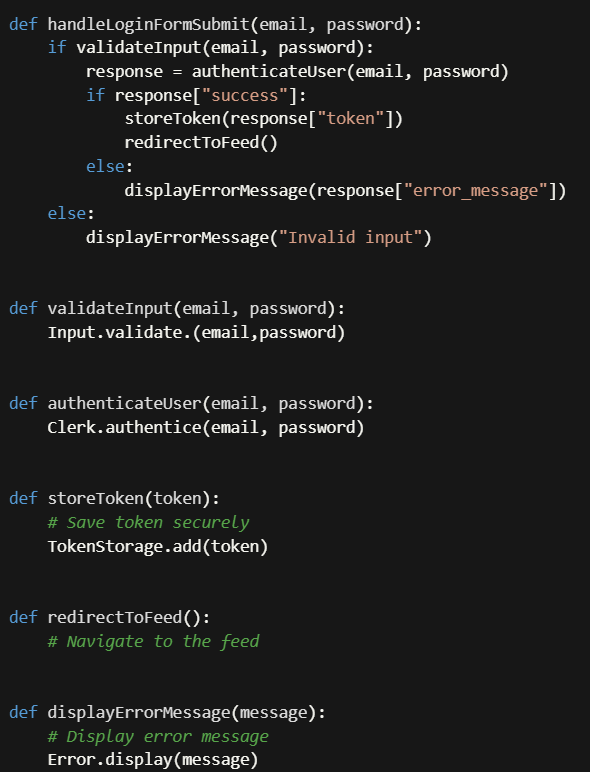
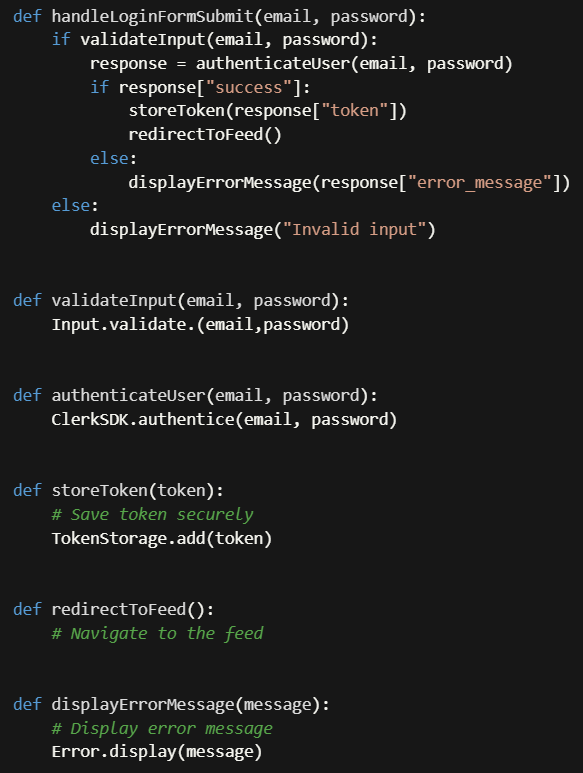
Fix authentication method and add pseudocode for UC2

diff --git a/deliverable-4-sdd/psuedocode/uc2/uc2.md b/deliverable-4-sdd/psuedocode/uc2/uc2.md
@@ -1,0 +1,48 @@
+```python
+def handleRecoverPasswordFormSubmit(email):
+    if validateEmail(email):
+        sendResetLink(email)
+        displayEnterCodeField()
+    else:
+        displayErrorMessage("Invalid email address")
+
+
+def validateEmail(email):
+    return Input.validateEmail(email)
+
+
+def sendResetLink(email):
+    ClerkSDK.sendResetLink(email)
+
+
+def submitVerificationCode(code):
+    response = ClerkSDK.verifyCode(code)
+    if response["success"]:
+        displayNewPasswordField()
+    else:
+        displayErrorMessage("Invalid verification code")
+
+
+def submitNewPassword(newPass):
+    response = ClerkSDK.updatePassword(newPass)
+    if response["success"]:
+        redirectToLoginPage()
+    else:
+        displayErrorMessage("Failed to update password")
+
+
+def displayEnterCodeField():
+    Input.showVerificationField()
+
+
+def displayNewPasswordField():
+    Input.showNewPasswordField()
+
+
+def redirectToLoginPage():
+    Navigation.toLoginPage()
+
+
+def displayErrorMessage(message):
+    Error.display(message)
+```

diff --git a/deliverable-4-sdd/psuedocode/uc1/uc1.md b/deliverable-4-sdd/psuedocode/uc1/uc1.md
@@ -16,7 +16,7 @@ def validateInput(email, password):
 
 
 def authenticateUser(email, password):
-    Clerk.authentice(email, password)
+    ClerkSDK.authentice(email, password)
 
 
 def storeToken(token):
